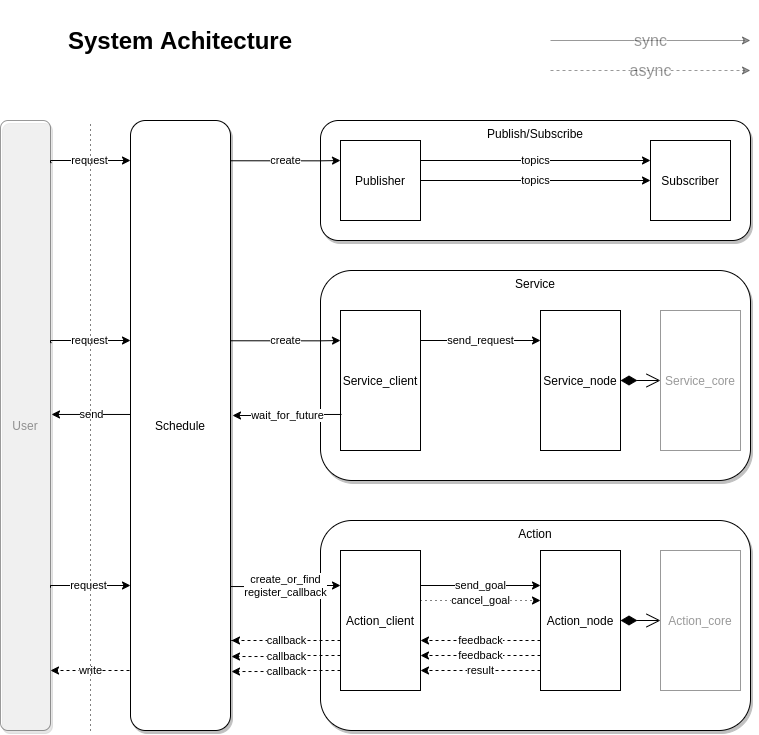
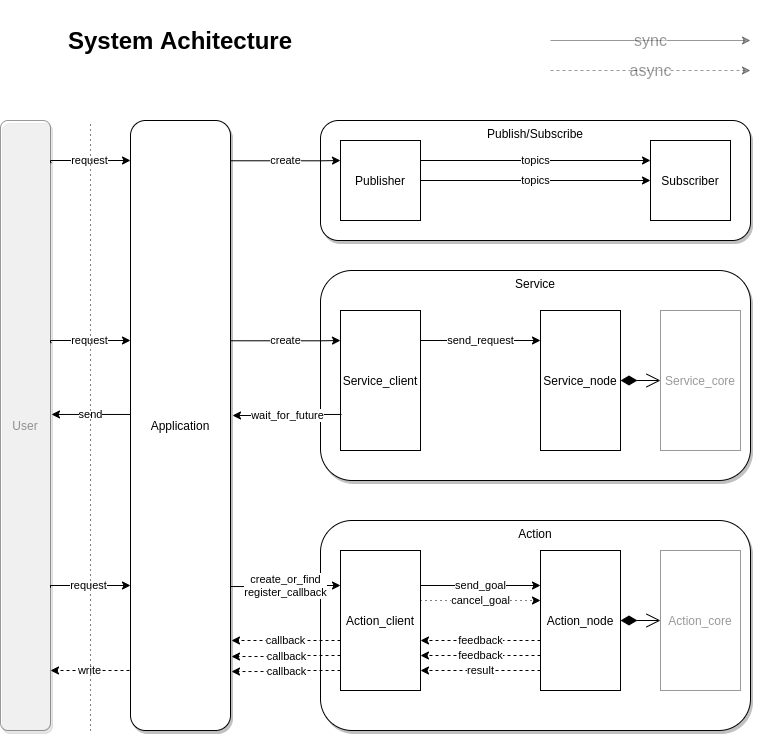
fix fibonacci handler

diff --git a/src/application_node/hanlders/calculate_fibonacci_handler.cpp b/src/application_node/hanlders/calculate_fibonacci_handler.cpp
@@ -8,8 +8,10 @@ using namespace Schedule;
 using namespace Schedule::handler;
 
 CalculateFibonacciHandler::~CalculateFibonacciHandler() {
-    GetUnsynchronizedContext<DataContextInterface>()->remove_action_node(client_);
     LOG(INFO) << "connection is broken";
+    // when the connection is broken, this handler will destruct
+    // stop the action client from working, and release it
+    GetUnsynchronizedContext<DataContextInterface>()->remove_action_node(client_);
 }
 
 void CalculateFibonacciHandler::OnRequest(const FibonacciIncomingType &request) {
@@ -28,14 +30,14 @@ void CalculateFibonacciHandler::OnRequest(const FibonacciIncomingType &request) 
         // client's name is request.client_id
         auto client = GetUnsynchronizedContext<DataContextInterface>()
                 ->find_or_create_action_client(request.metadata().client_id());
-        client_ = client;
-        std::weak_ptr <ActionClient> client_weak_ptr(client);
 
-        // if we have sent a goal before, cancel the current one
-        // if we haven't sent a goal, calling cancel_goal() won't have impacts
+        // hold this shared_ptr in handler
+        client_ = client;
+
+        // if this client has sent a goal twice and the former goal is running, cancel the former one
         if (!client->is_goal_done()) {
+            LOG(WARNING) << "goal has yet finished, cancel the former one";
             client->cancel_goal();
-            LOG(WARNING) << "goal has yet been done, cancel it";
         }
 
         // get the writer through which we can send back responses to clients
@@ -46,6 +48,12 @@ void CalculateFibonacciHandler::OnRequest(const FibonacciIncomingType &request) 
         goal.order = request.order();
         client->set_goal(goal);
 
+        // set feedback callback
+        /// If you capture a shared pointer with a lambda, that lambda will contain a shared pointer.
+        /// This is a typical scenario where the object owns a reference to itself, and thus can never be deleted.
+        /// To fix this, first establish a rule: never capture a std::shared_ptr<> in a lambda.
+        /// A simple solution is to use std::weak_ptr<>.
+        std::weak_ptr <ActionClient> client_weak_ptr(client);
         client->set_feedback_callback([client_weak_ptr, writer](ActionClient::ActionFeedback feedback) {
             if (auto client = client_weak_ptr.lock()) {
                 int num = feedback->partial_sequence.back();
@@ -58,15 +66,11 @@ void CalculateFibonacciHandler::OnRequest(const FibonacciIncomingType &request) 
 
                 if (writer.Write(std::move(response))) {
                     LOG(INFO) << "Write response: " << num;
-                } else {
-                    // cancel the goal when the grpc connection is broken(cos writer has been destroyed)
-                    client->cancel_goal();
-
-                    LOG(WARNING) << "grpc connection is broken, cancel the goal";
                 }
             }
         });
 
+        // set result callback
         client->set_result_callback([client_weak_ptr, writer](const ActionClient::ActionResult &result) {
             if (auto client = client_weak_ptr.lock()) {
                 std::string node_id = client->get_name();
@@ -81,8 +85,6 @@ void CalculateFibonacciHandler::OnRequest(const FibonacciIncomingType &request) 
                 if (writer.Write(std::move(response))) {
                     writer.WritesDone();
                     LOG(INFO) << "send back result";
-                } else {
-                    LOG(WARNING) << "grpc connection is broken, drop the result";
                 }
             }
         });

diff --git a/src/application_node/src/data_context_interface.cpp b/src/application_node/src/data_context_interface.cpp
@@ -1,0 +1,71 @@
+//
+// Created by zhihui on 12/24/19.
+//
+
+#include "application_node/data_server.h"
+#include "application_node/data_context_interface.h"
+
+using namespace Schedule;
+using namespace std::chrono_literals;
+
+DataContextInterface::DataContextInterface(ScheduleServer *map_builder_server)
+        : map_builder_server_(map_builder_server) {}
+
+void DataContextInterface::remove_action_node(std::shared_ptr <ActionClient> client) {
+    std::string client_id = client->get_name();
+
+    // unregister the client
+    {
+        std::lock_guard lock(mutex_);
+        auto iter = all_action_clients_.find(client_id);
+
+        if (iter != all_action_clients_.end()) {
+            all_action_clients_.erase(client_id);
+        }
+    }
+
+    auto &executor = map_builder_server_->get_executor();
+    // if goal is not done, cancel the goal first and then stop the node
+    if (!client->is_goal_done()) {
+        auto result = client->cancel_goal();
+        if (result) {
+            if (executor.spin_until_future_complete(result.value(), 10ms) ==
+                rclcpp::executor::FutureReturnCode::SUCCESS) {
+                RCLCPP_INFO(client->get_logger(), "Goal canceled");
+            } else {
+                RCLCPP_ERROR(client->get_logger(), "Failed to cancel goal");
+            }
+        }
+    }
+
+    // stop the node from working immediately
+    executor.remove_node(client);
+}
+
+std::shared_ptr <ActionClient> DataContextInterface::find_or_create_action_client(const std::string &node_name) {
+    using namespace std::placeholders;
+    std::shared_ptr <ActionClient> node;
+
+    std::lock_guard lock(mutex_);
+    auto iter = all_action_clients_.find(node_name);
+
+    // if there is a valid weak_node_ptr
+    if (iter != all_action_clients_.end() && iter->second.lock()) {
+        node = iter->second.lock();
+    } else {
+        auto &executor = map_builder_server_->get_executor();
+
+        // create a new node
+        node.reset(new ActionClient(node_name));
+
+        // insert node
+        all_action_clients_[node_name] = node;
+
+        // add node to executor and wait for feedback
+        /// Node can only be added once
+        /// Executor does not maintain a strong reference to nodes(just a weak_ptr, so shared_ptr count won't increase)
+        executor.add_node(node);
+    }
+
+    return node;
+}

diff --git a/src/action_node/src/action_client.cpp b/src/action_node/src/action_client.cpp
@@ -13,9 +13,8 @@ using namespace Action;
 auto C_DELAY_TIME = 10ms;
 
 ActionClient::ActionClient(const std::string &name,
-                           rclcpp::executors::MultiThreadedExecutor &executor,
                            const rclcpp::NodeOptions &node_options)
-        : Node(name, node_options), executor_(executor), goal_done_(true) {
+        : Node(name, node_options), goal_done_(true) {
     this->client_ptr_ = rclcpp_action::create_client<ActionMessage>(
             this->get_node_base_interface(),
             this->get_node_graph_interface(),
@@ -40,23 +39,16 @@ bool ActionClient::is_goal_done() const {
     return this->goal_done_;
 }
 
-void ActionClient::cancel_goal(DefaultFunction callback) {
+std::optional <ActionClient::CancelResponseSharedFuture> ActionClient::cancel_goal() {
     RCLCPP_INFO(this->get_logger(), "cancel goal");
     // in case server not available or goal hasn't been sent
     if (goal_handle_future_.valid()) {
-        /// this function could be called in feedback_callback()
-        /// but async_cancel_goal() and feedback_callback() both requires goal_handles_mutex_
-        /// which could result in a dead lock
-        /// so we made async_cancel_goal() run through a timer to avoid such scenario
-        cancel_timer_ = this->create_wall_timer(C_DELAY_TIME, [this, callback]() {
-            cancel_timer_->cancel();
+        auto cancel_result_future = this->client_ptr_->async_cancel_goal(goal_handle_future_.get());
 
-            auto cancel_result_future = this->client_ptr_->async_cancel_goal(goal_handle_future_.get());
-            if (callback) {
-                callback();
-            }
-        });
+        return {cancel_result_future};
     }
+
+    return {};
 }
 
 void ActionClient::set_goal(ActionMessage::Goal goal) {

diff --git a/src/action_node/include/action_node/action_client.h b/src/action_node/include/action_node/action_client.h
@@ -24,10 +24,10 @@ namespace Action {
         using FeedbackCallback = std::function<void(ActionFeedback)>;
         using ActionResult = ActionClientGoalHandle::WrappedResult;
         using ResultCallback = std::function<void(const ActionResult &)>;
-        using DefaultFunction = std::function<void()>;
+        using CancelResponseSharedFuture =
+        std::shared_future<rclcpp_action::Client<ActionMessage>::CancelResponse::SharedPtr>;
 
-        explicit ActionClient(const std::string &name,
-                              rclcpp::executors::MultiThreadedExecutor &executor,
+        explicit ActionClient(const std::string &name = "",
                               const rclcpp::NodeOptions &node_options = rclcpp::NodeOptions());
 
         ~ActionClient() final;
@@ -40,16 +40,19 @@ namespace Action {
 
         void set_result_callback(ResultCallback callback);
 
-        void cancel_goal(DefaultFunction callback = nullptr);
-
         void send_goal();
+
+        /**
+         * this function shouldn't be called in feedback_callback()
+         * because async_cancel_goal() and feedback_callback() both requires goal_handles_mutex_
+         * which results in a dead lock
+         * if necessary, we can make async_cancel_goal() run through a timer to avoid such scenario
+         * */
+        std::optional <CancelResponseSharedFuture> cancel_goal();
 
     private:
         rclcpp_action::Client<ActionMessage>::SharedPtr client_ptr_;
         rclcpp::TimerBase::SharedPtr heartbeat_timer_;
-        rclcpp::TimerBase::SharedPtr send_timer_;
-        rclcpp::TimerBase::SharedPtr cancel_timer_;
-        rclcpp::executors::MultiThreadedExecutor &executor_;
 
         ActionMessage::Goal goal_;
         FeedbackCallback feedback_callback_;

diff --git a/src/application_node/hanlders/calculate_fibonacci_handler.h b/src/application_node/hanlders/calculate_fibonacci_handler.h
@@ -13,7 +13,7 @@
 
 #include "test.pb.h"
 #include "test.grpc.pb.h"
-#include "schedule_node/data_context_interface.h"
+#include "application_node/data_context_interface.h"
 
 namespace Schedule::handler {
     using namespace zhihui::test;
@@ -33,7 +33,6 @@ namespace Schedule::handler {
         void OnRequest(const FibonacciIncomingType &request) override;
 
     private:
-        int sum_ = 0;
         std::shared_ptr <ActionClient> client_;
     };
 }

diff --git a/src/action_node/src/test.cpp b/src/action_node/src/test.cpp
@@ -18,7 +18,7 @@ int main(int argc, char **argv) {
     options.use_intra_process_comms(true);
 
     auto action_server = std::make_shared<ActionNode>(options);
-    auto action_client = std::make_shared<ActionClient>("ActionClient1", exec, options);
+    auto action_client = std::make_shared<ActionClient>("ActionClient1", options);
     exec.add_node(action_server);
     exec.add_node(action_client);
 

diff --git a/src/application_node/src/data_server.cpp b/src/application_node/src/data_server.cpp
@@ -3,8 +3,8 @@
 //
 #include <async_grpc/completion_queue_pool.h>
 
-#include "schedule_node/data_server.h"
-#include "schedule_node/data_context_interface.h"
+#include "application_node/data_server.h"
+#include "application_node/data_context_interface.h"
 
 #include "login_handler.h"
 #include "broadcast_handler.h"

diff --git a/src/application_node/include/application_node/data_context_interface.h b/src/application_node/include/application_node/data_context_interface.h
@@ -31,8 +31,6 @@ namespace Schedule {
 
         std::shared_ptr <ActionClient> find_or_create_action_client(const std::string &node_name);
 
-        void remove_action_node_by_name(const std::string &node_name);
-
         void remove_action_node(std::shared_ptr <ActionClient> node);
 
     private:

diff --git a/src/application_node/src/test.cpp b/src/application_node/src/test.cpp
@@ -7,7 +7,7 @@
 #include <grpc++/grpc++.h>
 #include <glog/logging.h>
 
-#include "schedule_node/data_context_interface.h"
+#include "application_node/data_context_interface.h"
 #include "calculate_fibonacci_handler.h"
 #include "sum_numbers_handler.h"
 #include "broadcast_handler.h"

diff --git a/src/application_node/hanlders/broadcast_handler.cpp b/src/application_node/hanlders/broadcast_handler.cpp
@@ -5,7 +5,7 @@
 #include <std_msgs/msg/string.hpp>
 
 #include "broadcast_handler.h"
-#include "schedule_node/data_context_interface.h"
+#include "application_node/data_context_interface.h"
 
 using namespace Schedule;
 using namespace Schedule::handler;

diff --git a/src/application_node/hanlders/sum_numbers_handler.cpp b/src/application_node/hanlders/sum_numbers_handler.cpp
@@ -3,7 +3,7 @@
 //
 
 #include "sum_numbers_handler.h"
-#include "schedule_node/data_context_interface.h"
+#include "application_node/data_context_interface.h"
 
 using namespace Schedule;
 using namespace Schedule::handler;

diff --git a/src/application_node/hanlders/login_handler.cpp b/src/application_node/hanlders/login_handler.cpp
@@ -3,7 +3,7 @@
 //
 
 #include "login_handler.h"
-#include "schedule_node/data_context_interface.h"
+#include "application_node/data_context_interface.h"
 
 using namespace Schedule;
 using namespace Schedule::handler;
